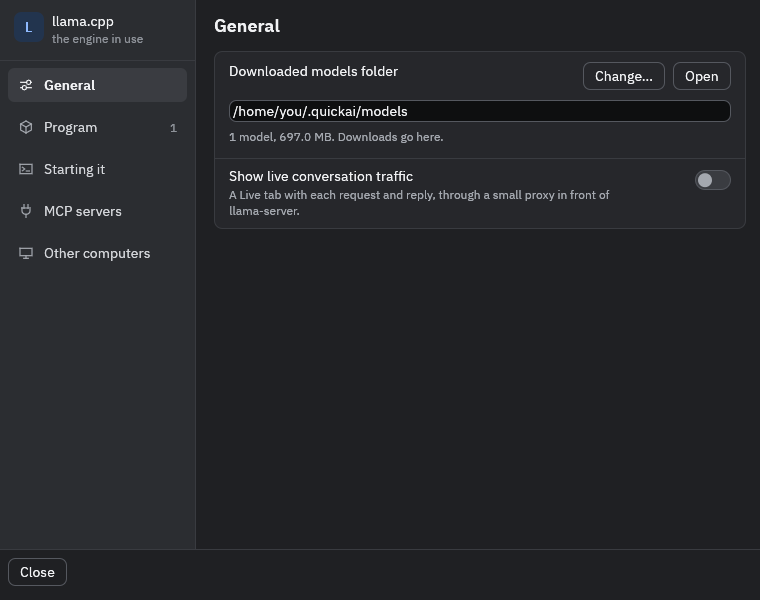
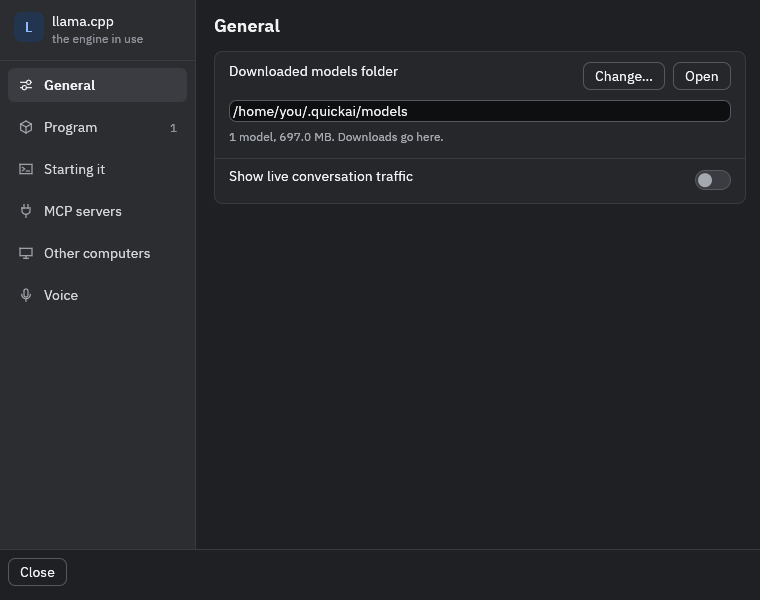
Help: Add a model as rows with Get, the Voice page, settings explained on hover
- Find the right model: each suggestion is a row whose Get downloads the size that suits
  this computer, with the other sizes under its ▾; a search puts the best matches first,
  and owner/model finds the GGUF versions of a repository; Recommended has the same Get
  and offers a search of Hugging Face when nothing matches.
- Settings overview: the Voice page, and that a setting's name says what it does when the
  pointer rests on it.
- The pictures taken again in both themes (Add a model's rows, the Settings without the
  words under each name); the marks of Add a model on its Get, and a sixth on Voice.
- README: the context is chosen from 4K to 256K, not Light, Balanced or Long.

Changed region(s): [[0.3026, 0.3, 0.7868, 0.36], [0.0303, 0.48, 0.0908, 0.51]]

diff --git a/crates/quickai/src/app/help.rs b/crates/quickai/src/app/help.rs
@@ -282,28 +282,33 @@ const PAGES: &[Page] = &[
         lead: "How to choose a model that suits this computer, and how to download it.",
         picture: Some(Picture {
             name: "add-model",
-            marks: &[(2, 618.0, 177.0), (3, 284.0, 28.0), (4, 660.0, 28.0), (5, 394.0, 369.0)],
-            ring: Some([681.0, 165.0, 24.0, 24.0]),
+            marks: &[(2, 591.0, 186.0), (3, 284.0, 28.0), (4, 660.0, 28.0), (5, 394.0, 393.0)],
+            ring: Some([604.0, 172.0, 96.0, 28.0]),
         }),
         steps: &[
             step("Press {plus} beside **MODELS**, then **Add a model…**, or press Ctrl+K.")
                 .at(Spot::AddModel)
                 .does(Deed::AddModel),
             step(
-                "With the search box empty, QuickAI suggests models that fit this computer's memory. Press {download} \
-                 beside one to download it.",
+                "With the search box empty, QuickAI suggests models that fit this computer's memory, one row each. \
+                 **Get** downloads the size that suits this computer; its ▾ lists the other sizes, such as **Higher \
+                 quality** or **Smaller**.",
             ),
             step(
-                "Type keywords to search online: Hugging Face for llama.cpp, ollama.com for Ollama. Pressing Enter in \
-                 the empty box lists the most popular models.",
+                "Type keywords to search online: Hugging Face for llama.cpp, ollama.com for Ollama. The best matches \
+                 come first, and a repository name such as owner/model also finds the GGUF versions others have made \
+                 of it. Pressing Enter in the empty box lists the most popular models.",
             ),
             step("Paste a link to a .gguf file to download it, or press the folder {folder} to add a file you already have."),
             step(
                 "To browse on your own, **Hugging Face** below the list opens its model directory in your browser. \
                  Paste the link of the model you choose into the box.",
             ),
-            step("**Recommended** in the sidebar lists every model QuickAI has verified, by type and size.")
-                .does(Deed::Recommended),
+            step(
+                "**Recommended** in the sidebar lists every model QuickAI has verified, by type, with the same **Get** \
+                 button. When nothing there matches your search, it offers to search Hugging Face.",
+            )
+            .does(Deed::Recommended),
         ],
         numbered: true,
         tip: Some(
@@ -611,6 +616,7 @@ const PAGES: &[Page] = &[
                 (3, 196.0, 169.0),
                 (4, 196.0, 211.0),
                 (5, 196.0, 253.0),
+                (6, 196.0, 295.0),
             ],
             ring: None,
         }),
@@ -625,9 +631,14 @@ const PAGES: &[Page] = &[
             ),
             step("**MCP servers**: the servers whose tools a model may use, as in **MCP servers** in the sidebar."),
             step("**Other computers**: whether QuickAI may set up a computer you add, in order to run models there."),
+            step("**Voice**: speaking to QuickAI and having responses read aloud, off until you enable it.")
+                .does(Deed::Voice),
         ],
         numbered: true,
-        tip: Some("With Ollama, **Open WebUI** has its own page: a chat interface in your browser."),
+        tip: Some(
+            "Rest the pointer on a setting's name to see what it does. With Ollama, **Open WebUI** has its own page: a \
+             chat interface in your browser.",
+        ),
     },
     Page {
         page: HelpPage::WontStart,

diff --git a/README.md b/README.md
@@ -98,9 +98,9 @@ model offers **Details…**, **Show in folder** and **Delete…**; each row show
 fast on your computer, and whether it is the recommended choice for it. Add a model, model details, Help and About open
 in separate windows that you can move and resize like any other window.
 
-The panel on the right shows how the model runs: the context size (**Light**, **Balanced** or **Long**, with **Other…**
-offering more, up to 2M where the model supports it), whether it runs on the graphics card, the processor or both, and
-the tools it may use. The button at the top of the panel hides it, and the button at the right end of the toolbar
+The panel on the right shows how the model runs: the context size (**4K** to **256K**, each with a dot that shows
+whether it fits, and **Other…** offering more, up to 2M where the model supports it), whether it runs on the graphics
+card, the processor or both, and the tools it may use. The button at the top of the panel hides it, and the button at the right end of the toolbar
 shows it again.
 
 Choose the engine under **This computer**, at the top of the sidebar. An engine that is not yet installed has an
